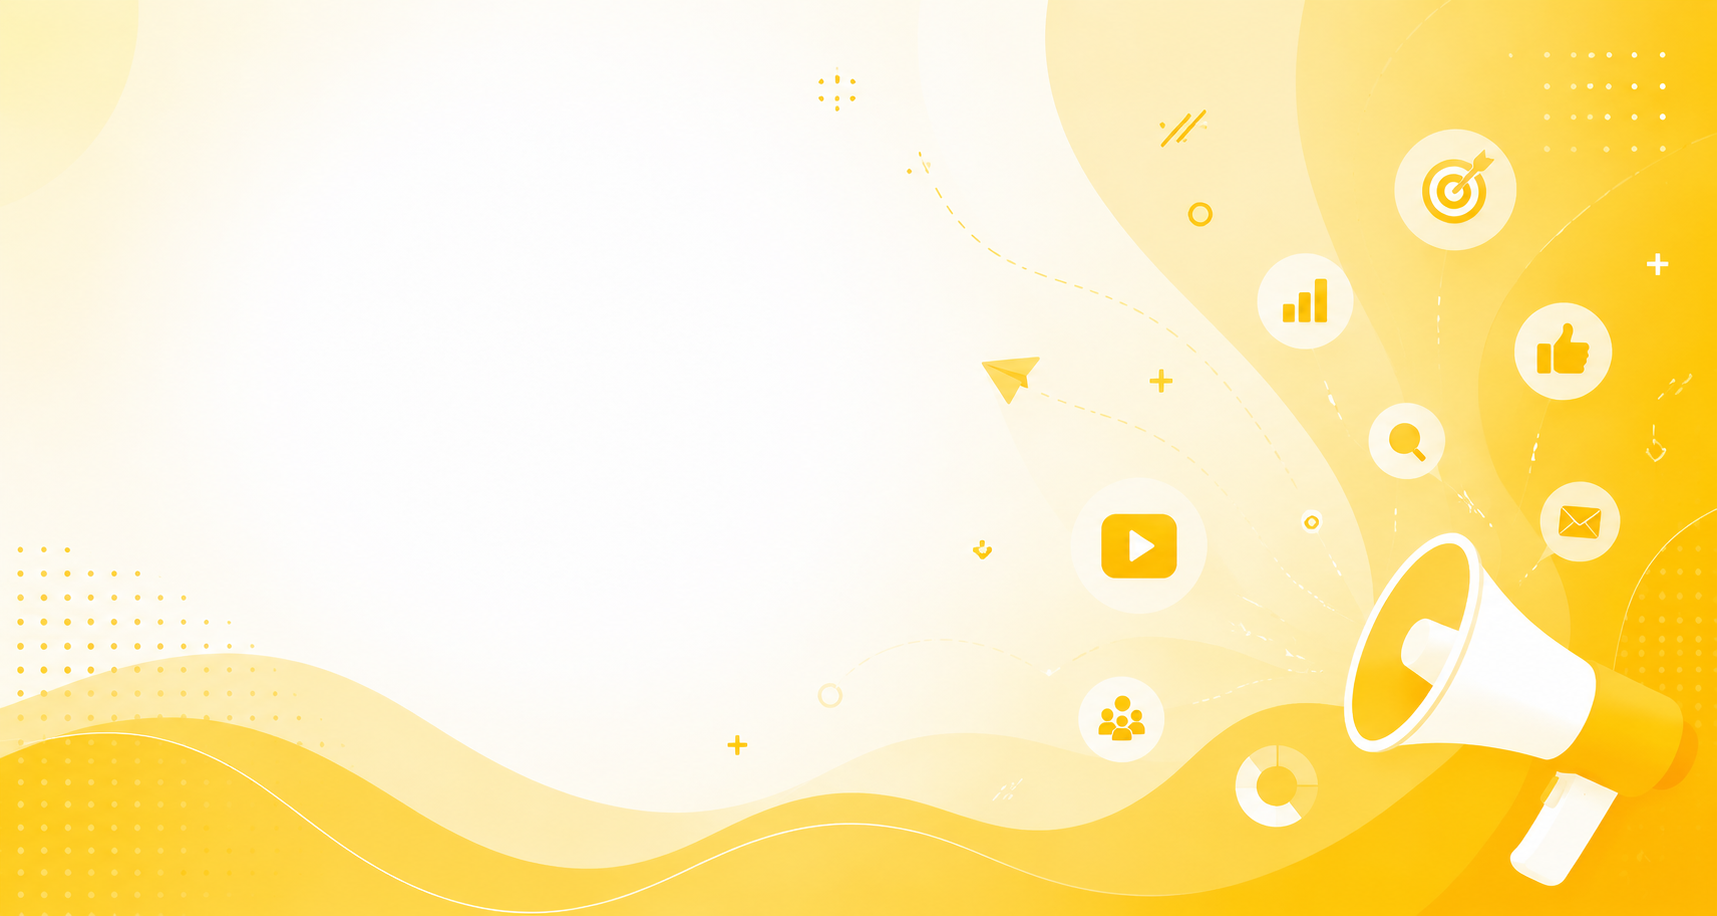
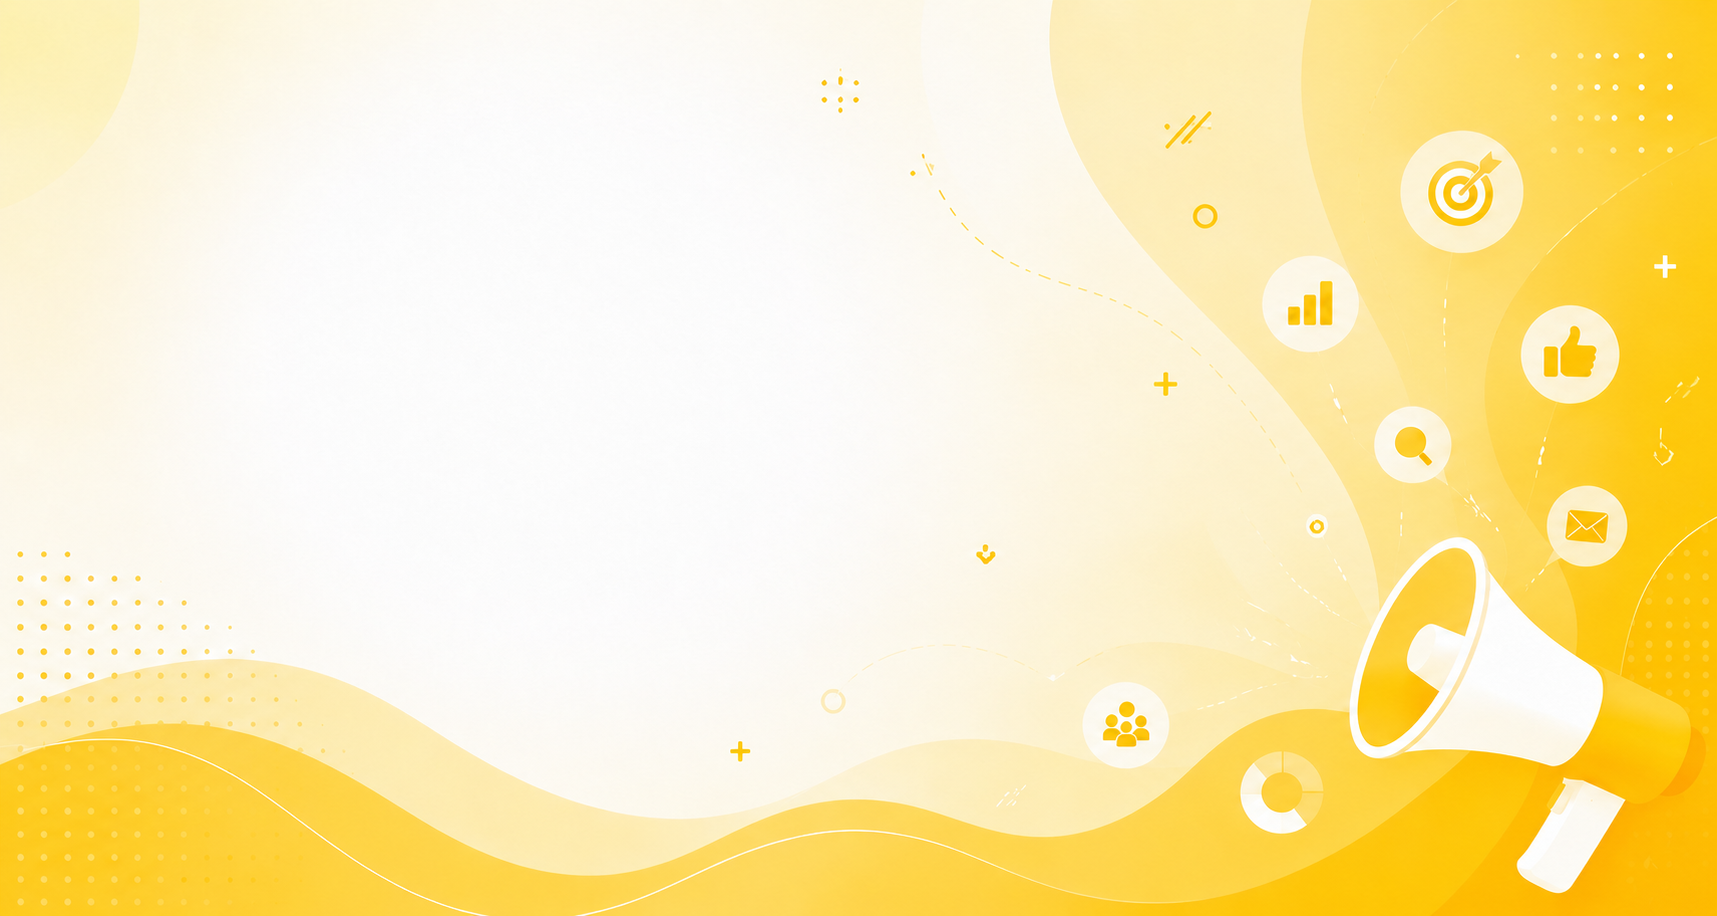
Update the code

diff --git a/src/components/data/Card.ts b/src/components/data/Card.ts
@@ -30,25 +30,11 @@ export const services = [
         route: "/web"
     },
     // {
-    //     title: "Facebook Ads",
-    //     image: facebook,
-    //     description: "Generate leads and sales through data driven social advertising.",
-    //     icon: "✨",
-    //     route: "/facebook"
-    // },
-    {
-        title: "Google Ads",
-        image: google,
-        description: "Reach customers at the right moment with targeted Google campaigns.",
-        icon: "💻",
-        route: "/google"
-    },
-    // {
-    //     title: "Linkdin Ads",
-    //     image: linkdin,
-    //     description: "Connect with decision makers and grow your professional network.",
-    //     icon: "📈",
-    //     route: "/linkdin"
+    //     title: "Google Ads",
+    //     image: google,
+    //     description: "Reach customers at the right moment with targeted Google campaigns.",
+    //     icon: "💻",
+    //     route: "/google"
     // },
     {
         title: "SEO Optimization",

diff --git a/src/components/Count.tsx b/src/components/Count.tsx
@@ -108,7 +108,7 @@ const Count = () => {
   }, []);
 
   return (
-    <div id="count" ref={containerRef} className="relative overflow-hidden py-24 px-5 md:px-10 lg:px-20 bg-white">
+    <div id="count" ref={containerRef} className="relative overflow-hidden py-8 px-5 md:px-10 lg:px-20 bg-white">
       {/* Background Image & Light Yellow Glow Blend */}
       <div className="absolute inset-0 -z-10">
         <img

diff --git a/src/components/Home/Home.tsx b/src/components/Home/Home.tsx
@@ -332,7 +332,7 @@ const Home = () => {
       </section>
 
       {/* SECTION 2: White Background, Natural content-based height, Scroll-triggered */}
-      <section className="relative bg-white py-16 md:py-24 px-4 w-full flex items-center justify-center overflow-hidden border-t border-slate-100">
+      <section className="relative bg-white py-10 md:py-24 px-4 w-full flex items-center justify-center overflow-hidden border-t border-slate-100">
         
         {/* Subtle grid background lines for premium feel */}
         <div className="absolute inset-0 bg-[linear-gradient(to_right,rgba(212,175,55,0.35)_1px,transparent_1px),linear-gradient(to_bottom,rgba(255,255,255,0.15)_1px,transparent_1px)] bg-[size:4rem_4rem] [mask-image:radial-gradient(ellipse_60%_50%_at_50%_50%,#000_70%,transparent_100%)] opacity-80 -z-10 pointer-events-none" />

diff --git a/src/components/Popup/StrategyPopup.tsx b/src/components/Popup/StrategyPopup.tsx
@@ -19,7 +19,7 @@ export default function StrategyPopup() {
     const timer = setTimeout(() => {
       setShowPopup(true);
       setShown((prev) => ({ ...prev, start: true }));
-    }, 3000);
+    }, 2000);
 
     return () => clearTimeout(timer);
   }, []);